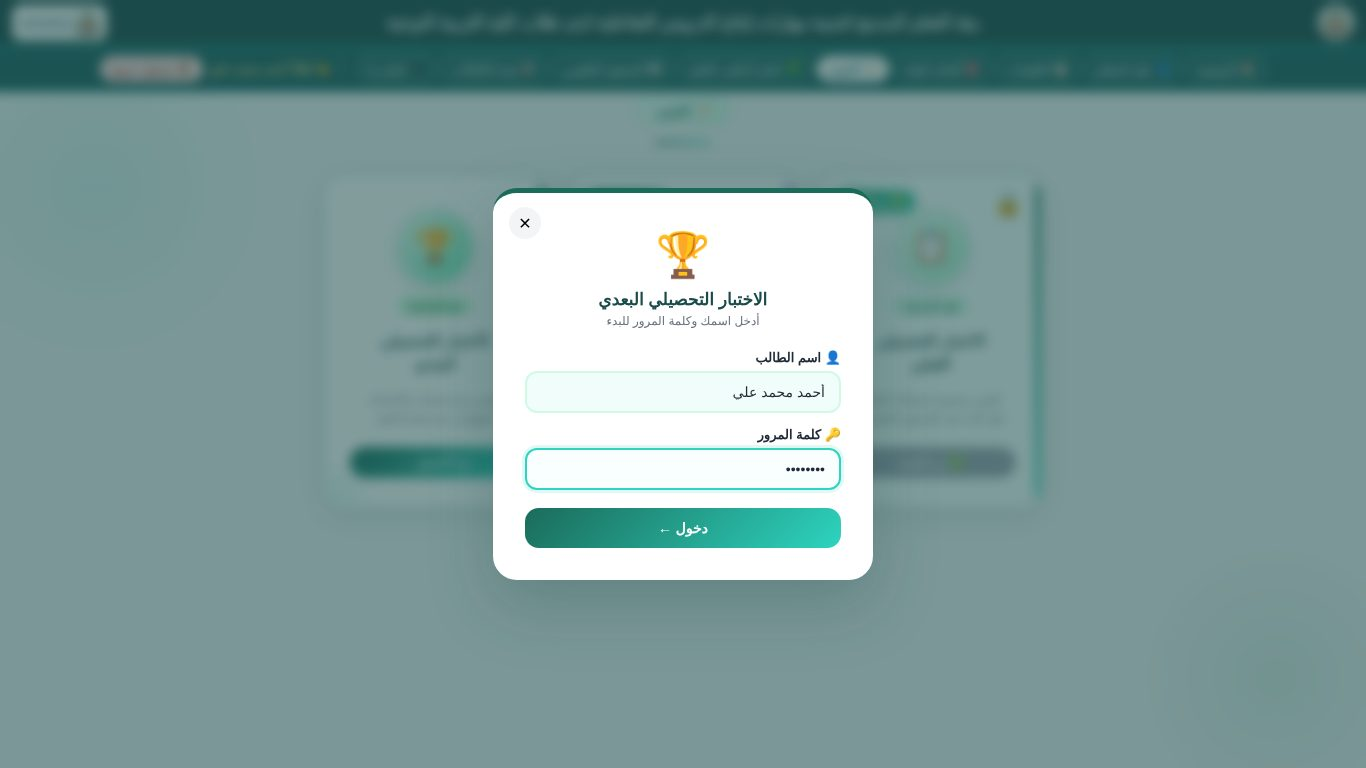
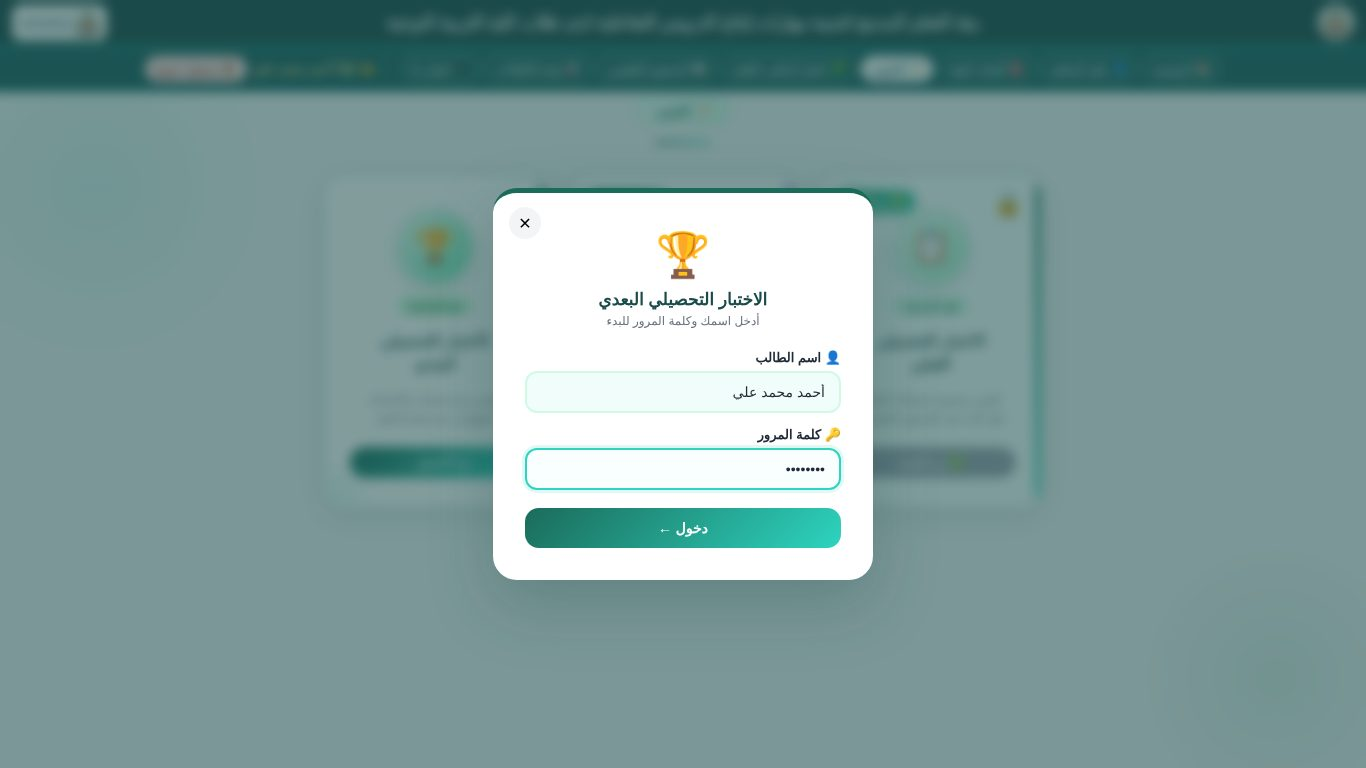
Update project

Changed region(s): [[0.0615, 0.0625, 0.1845, 0.125], [0.5842, 0.0625, 0.7072, 0.125]]

diff --git a/guied.html b/guied.html
@@ -45,6 +45,7 @@
         <div class="mini"><b>🏫 في البيئة الصفية (المحاضرات)</b>تدرس الموديول الأول (خلفية نظرية عن الدروس التفاعلية) والموديول الثاني (نموذج التصميم التعليمي لتصميم الدروس التفاعلية).</div>
         <div class="mini"><b>💻 في البيئة الإلكترونية (هذه البيئة)</b>تدرس الجانب العملي: الموديول الثالث (مرحلة إنتاج الدروس التفاعلية باستخدام برنامج CourseLab) والموديول الرابع (مرحلة نشر وتطبيق وتقويم الدروس التفاعلية).</div>
       </div>
+      <div class="tip" style="background:#fff7ed;border-color:#fdba74;">🔑 <b>للدخول على الموديول الثالث (البيئة التعليمية)</b> يجب أن تقوم بالإجابة على الاختبارات، سواء الاختبار التحصيلي القبلي أو اختبار أساليب التعلم، وبناءً على درجتك فيهما سيتم توجيهك للبيئة المناسبة.</div>
       <div class="tip">📌 الدليل متاح في كل وقت من رابط «📘 دليل المتعلم» أعلى الشاشة، ويمكنك فتحه حتى أثناء الاختبارات (يفتح في نافذة جديدة).</div>
     </section>
 
@@ -60,16 +61,17 @@
       <div class="tip">🔍 إذا ظهر شريط تمرير أو جزء مقصوص من الصفحة: صغّر تكبير المتصفح بالضغط على <b>Ctrl و −</b> حتى تظهر الصفحة كاملة، وللرجوع للحجم الطبيعي <b>Ctrl و 0</b>.</div>
     </section>
 
-    <section class="g-sec" id="login" data-title="تسجيل الدخول" data-ico="🔑" data-part="أولاً: الدخول إلى البيئة">
+    <section class="g-sec" id="login" data-title="الدخول إلى البيئة" data-ico="🔑" data-part="أولاً: الدخول إلى البيئة">
       <ol class="steps">
         <li>افتح متصفح الإنترنت (مثل Google Chrome).</li>
-        <li>اكتب أو الصق رابط البيئة في شريط العنوان: <span class="url" id="envUrl"></span> ثم اضغط <b>Enter</b>.</li>
-        <li>تظهر <b>شاشة تسجيل الدخول</b> للبيئة. تأكد أن الزر <b>«تسجيل دخول الطالب»</b> أعلى الشاشة هو المحدد.</li>
-        <li>اكتب <b>اسم المستخدم</b> و<b>كلمة المرور</b> اللذين أعطتهما لك الباحثة، ثم اضغط <b>«دخول»</b>.</li>
+        <li>انسخ رابط البيئة التالي والصقه في شريط العنوان: <span class="url" id="envUrl"></span> ثم اضغط <b>Enter</b>.</li>
+        <li class="only-closed">تظهر <b>شاشة تسجيل الدخول</b>؛ تأكد أن الزر <b>«تسجيل دخول الطالب»</b> أعلى الشاشة هو المحدد، واكتب <b>اسم المستخدم</b> و<b>كلمة المرور</b> اللذين أعطتهما لك الباحثة، ثم اضغط <b>«دخول»</b>.</li>
       </ol>
-      <figure class="shot"><img src="img/guide/01_login.jpg" alt="شاشة تسجيل الدخول"><figcaption>شاشة تسجيل الدخول</figcaption></figure>
-      <p>بمجرد الدخول يظهر اسمك أعلى الشاشة: <b>«👋 أهلاً، اسمك»</b> وبجواره زر <b>«تسجيل خروج»</b>، وتظهر روابط البيئة كلها، وفي أول دخول تنقلك البيئة مباشرة إلى الاختبار التحصيلي القبلي.</p>
-      <figure class="shot"><img src="img/guide/02_home.jpg" alt="الشاشة الرئيسية بعد الدخول"><figcaption>الشاشة الرئيسية للبيئة بعد تسجيل الدخول</figcaption></figure>
+      <figure class="shot only-closed"><img src="img/guide/01_login.jpg" alt="شاشة تسجيل الدخول"><figcaption>شاشة تسجيل الدخول</figcaption></figure>
+      <p>تظهر <b>الشاشة الرئيسية</b> للبيئة كما هو موضح بالشكل الآتي:</p>
+      <figure class="shot"><img src="img/guide/02_home.jpg" alt="الشاشة الرئيسية للبيئة"><figcaption>الشاشة الرئيسية للبيئة</figcaption></figure>
+      <div class="tip" style="background:#fff7ed;border-color:#fdba74;">📝 قم بأداء <b>الاختبار التحصيلي القبلي</b> و<b>اختبار أساليب التعلم</b>، وبناءً على درجتك فيهما سوف يتم توجيهك للبيئة المناسبة لتلقي الدعم، وتدخل إليها من خلال <b>اسم المستخدم (اليوزر نيم)</b> و<b>كلمة المرور</b> كما بالشكل الآتي:</div>
+      <figure class="shot"><img src="img/guide/09b_pattern_login.jpg" alt="شاشة تسجيل الدخول لبيئة الدعم"><figcaption>شاشة تسجيل الدخول لبيئة الدعم التي تم توجيهك إليها</figcaption></figure>
       <div class="tip">🔐 بياناتك شخصية؛ لا تشاركها مع أحد. كل دخول وكل خطوة تنجزها يُحفظ باسمك، وعند الدخول مرة أخرى (من أي جهاز) تكمل من حيث توقفت.</div>
     </section>
 
@@ -79,8 +81,7 @@
       <table class="tbl">
         <tr><th>الرابط</th><th>ماذا يحدث عند الضغط عليه؟</th></tr>
         <tr><td>🏠 الرئيسية</td><td>يعرض عنوان البحث وبيانات الباحثة والسادة المشرفين.</td></tr>
-        <tr><td>📘 دليل المتعلم</td><td>هذا الدليل.</td></tr>
-        <tr><td>📋 التعليمات</td><td>تعليمات مختصرة في ثلاثة روابط: الدخول — أثناء التعلم — الاختبارات والخروج.</td></tr>
+        <tr><td>📘 دليل المتعلم</td><td>هذا الدليل، ويتضمن كل تعليمات التعامل مع البيئة من الدخول حتى الخروج.</td></tr>
         <tr><td>🎯 أهداف البيئة</td><td>يعرض <b>الأهداف</b> التي ستكون قادرًا على تحقيقها بعد دراستك في البيئة.</td></tr>
         <tr><td>📝 التقويم</td><td>منه تؤدي الاختبار التحصيلي القبلي واختبار أساليب التعلم، وفي نهاية التعلم الاختبار التحصيلي البعدي.</td></tr>
         <tr><td>🧩 اختبار أساليب التعلم</td><td>رابط مباشر لاختبار أساليب التعلم (يُفتح بعد الاختبار القبلي).</td></tr>
@@ -144,12 +145,13 @@
       </ol>
       <p>اضغط على الدرس فتظهر تحته ثلاثة روابط: <b>🎯 أهداف الدرس</b> — <b>📄 محتوى الدرس</b> — <b>🧩 النشاط التعليمي</b>.</p>
       <figure class="shot"><img src="img/guide/11_lesson_objectives.jpg" alt="أهداف الدرس"><figcaption>«أهداف الدرس»: ما ستتمكن منه بعد دراسة الدرس</figcaption></figure>
-      <p>في <b>«محتوى الدرس»</b> تظهر <b>روابط المهارات</b> أعلى الشاشة؛ اضغط على رابط المهارة فيظهر <b>شرحها</b> وبجواره <b>الفيديو أو الصورة الخاصة بها</b>. تنقّل بين المهارات بالروابط، والمهارة التي شاهدتها يظهر بجوار رقمها ✓.</p>
-      <figure class="shot"><img src="img/guide/12_lesson_content_links.jpg" alt="محتوى الدرس وروابط المهارات"><figcaption>«محتوى الدرس»: روابط المهارات، وشرح المهارة المختارة مع الفيديو الخاص بها</figcaption></figure>
+      <p>بمجرد الضغط على <b>«محتوى الدرس»</b> تظهر أسفله <b>قائمة منسدلة</b> بأسماء مهارات الدرس (مثل: تحميل البرنامج — الوصول إلى الملف — خطوات التفعيل). اضغط على اسم المهارة فيظهر <b>شرحها</b> وبجواره <b>الفيديو أو الصور الخاصة بها</b>، والمهارة التي شاهدتها تتلوّن علامتها باللون الأخضر.</p>
+      <figure class="shot"><img src="img/guide/12_lesson_content_links.jpg" alt="محتوى الدرس وروابط المهارات"><figcaption>«محتوى الدرس»: قائمة المهارات المنسدلة، وشرح المهارة المختارة مع الفيديو الخاص بها</figcaption></figure>
       <p>بعد آخر درس في الموديول الثالث يظهر لك رابط الانتقال إلى الموديول الرابع، وبنفس الطريقة تستعرض دروسه الثلاثة: نشر الدرس التفاعلي في برنامج CourseLab — التغذية الراجعة لمرحلة الإنتاج ومرحلة التنفيذ — مرحلة التقويم Evaluation.</p>
     </section>
 
     <section class="g-sec" id="activity" data-title="النشاط التعليمي والدعم" data-ico="🧩" data-part="ثانياً: التفاعل مع البيئة والروابط">
+      <div class="tip" style="background:#fff7ed;border-color:#fdba74;">🧩 <b>لن يظهر النشاط لك إلا بعد أداء الجانب العملي الموجود</b> في «محتوى الدرس»، وخلال النشاط ستحتاج للدعم، وسيكون ظاهرًا أمامك بصورة ثابتة، أو أن تطلبه من خلال الضغط على الزر لعرضه.</div>
       <ol class="steps">
         <li>بعد دراسة محتوى الدرس اضغط على <b>«🧩 النشاط التعليمي»</b> في قائمة الدرس على اليمين.</li>
         <li>يظهر أمامك <b>وصف النشاط</b> و<b>المطلوب منك</b>؛ نفّذه على برنامج CourseLab.</li>
@@ -181,11 +183,14 @@
       <figure class="shot"><img src="img/guide/20_final_screen.jpg" alt="نتيجة الاختبار البعدي"><figcaption>الشاشة الأخيرة: نتيجة الاختبار التحصيلي البعدي</figcaption></figure>
     </section>
 
-    <section class="g-sec" id="exit" data-title="الخروج من البيئة ونصائح عامة" data-ico="🚪" data-part="ثانياً: التفاعل مع البيئة والروابط">
+    <section class="g-sec" id="exit" data-title="الخروج من البيئة وتعليمات عامة" data-ico="🚪" data-part="ثانياً: التفاعل مع البيئة والروابط">
       <ul class="steps">
         <li>للخروج في أي وقت اضغط زر <b>«🚪 تسجيل خروج»</b> أعلى الشاشة بجوار اسمك؛ يُحفظ تقدّمك وتكمل من نفس النقطة في الدخول التالي.</li>
-        <li>لا تغلق نافذة الاختبار أثناء أدائه؛ وعند انتهاء الوقت يُسلَّم تلقائيًا.</li>
-        <li>ادرس الدروس بالترتيب، ونفّذ نشاط كل درس قبل الانتقال للدرس التالي.</li>
+        <li>اضبط تكبير المتصفح على <b>100%</b>، واستخدم أحدث إصدار من Google Chrome مع اتصال إنترنت مستقر.</li>
+        <li>ادرس الدروس بالترتيب: <b>أهداف الدرس</b> ← <b>محتوى الدرس</b> ← <b>النشاط التعليمي</b>، ونفّذ نشاط كل درس وسلّمه قبل الانتقال للدرس التالي.</li>
+        <li>شاهد فيديو كل مهارة كاملًا، وطبّق المهارة عمليًا على برنامج CourseLab.</li>
+        <li>أثناء أي اختبار: لا تغلق الصفحة ولا تغادرها؛ يمكنك فقط فتح «دليل المتعلم» في نافذة جديدة، وعند انتهاء الوقت يُسلَّم الاختبار تلقائيًا بالإجابات المسجلة.</li>
+        <li>تابع <b>لوحة الإعلانات</b> باستمرار؛ تنشر فيها الباحثة التذكيرات والمواعيد (مثل موعد تسليم الأنشطة وكلمة مرور الاختبار البعدي).</li>
         <li>إذا واجهتك مشكلة تقنية: حدّث الصفحة (F5)، وتأكد من الإنترنت، ثم تواصل مع الباحثة من «اتصل بنا».</li>
       </ul>
     </section>
@@ -199,8 +204,9 @@
 (function(){
   /* رابط البيئة الفعلي */
   try {
-    var u = new URL(ENV.url('main', 'index.html'), location.href).href;
-    document.getElementById('envUrl').textContent = u.replace(/index\.html$/, '');
+    var u = new URL(ENV.url('main', 'home.html'), location.href).href;
+    document.getElementById('envUrl').textContent = u;
+    if (ENV.CONFIG && ENV.CONFIG.OPEN_MODE) document.querySelectorAll('.only-closed').forEach(function(el){ el.style.display = 'none'; });
   } catch(e) {}
   /* تكبير الصور */
   document.querySelectorAll('.shot img').forEach(function(im){

diff --git a/admin.html b/admin.html
@@ -71,6 +71,7 @@ tr:hover td{background:#f8fffd;}
     <a href="#accounts">➕ إنشاء حسابات الطلاب</a>
     <a href="#activities">📝 إجابات الأنشطة</a>
     <a href="#log">🕒 سجل نشاط الطلاب</a>
+    <a href="#ann">📢 لوحة الإعلانات</a>
     <a href="#researchers">🎓 حسابات الباحثين</a>
   </div>
   <div class="row" style="margin-bottom:10px;">
@@ -115,7 +116,7 @@ tr:hover td{background:#f8fffd;}
         <div style="display:grid;gap:8px;">
           <input id="aName" placeholder="اسم الطالب (كما يظهر في البيئة)">
           <input id="aUser" placeholder="اسم المستخدم (إنجليزي بدون مسافات) مثل: s001" dir="ltr" style="text-align:right;">
-          <div class="row"><input id="aPass" placeholder="كلمة المرور (6 أحرف على الأقل)" dir="ltr" style="flex:1;text-align:right;"><button class="ghost" onclick="$('aPass').value=genPass()">🎲 توليد</button></div>
+          <div class="row"><input id="aPass" placeholder="كلمة المرور (6 أرقام/أحرف على الأقل) — اتركها فارغة لتوليد 6 أرقام" dir="ltr" style="flex:1;text-align:right;"><button class="ghost" onclick="$('aPass').value=genPass()">🎲 توليد</button></div>
           <button onclick="addOne()" id="aBtn">إنشاء الحساب</button>
           <div class="msg" id="aMsg"></div>
         </div>
@@ -159,6 +160,27 @@ tr:hover td{background:#f8fffd;}
   </section>
 
   <!-- ============ الباحثون ============ -->
+  <section class="pane" id="ann">
+    <div class="grid2">
+      <div class="box"><h3>📢 نشر إعلان / تذكير للطلاب</h3>
+        <div class="muted" style="margin-bottom:6px;">يظهر الإعلان فورًا في «لوحة الإعلانات» لدى الطلاب، مثل التذكير بالانتهاء من النشاط وتسليمه أو موعد الاختبار البعدي.</div>
+        <div style="display:grid;gap:8px;">
+          <input id="anTitle" placeholder="عنوان الإعلان (مثال: تذكير بتسليم نشاط الدرس الرابع)">
+          <textarea id="anText" rows="5" placeholder="نص الإعلان..." dir="auto"></textarea>
+          <div class="row">
+            <label class="muted">النوع:</label>
+            <select id="anType"><option value="urgent">🔴 عاجل</option><option value="info" selected>🔵 تذكير / توجيه</option></select>
+            <label class="muted">يظهر لـ:</label>
+            <select id="anTarget"><option value="all">كل الطلاب (الأنماط الأربعة)</option></select>
+          </div>
+          <div class="row"><button onclick="saveAnn()" id="anBtn">📢 نشر الإعلان</button><button class="ghost" onclick="resetAnn()">مسح الحقول</button></div>
+          <div class="msg" id="anMsg"></div>
+        </div>
+      </div>
+      <div class="box"><h3>الإعلانات المنشورة</h3><div class="muted" style="margin-bottom:6px;">يمكنك إخفاء الإعلان مؤقتًا أو تعديله أو حذفه.</div><div class="tblwrap"><table id="anTbl"></table></div></div>
+    </div>
+  </section>
+
   <section class="pane" id="researchers">
     <div class="grid2">
       <div class="box"><h3>➕ إضافة حساب باحث/مشرف</h3>
@@ -183,7 +205,7 @@ tr:hover td{background:#f8fffd;}
 <script src="https://www.gstatic.com/firebasejs/9.23.0/firebase-firestore-compat.js"></script>
 <script src="https://www.gstatic.com/firebasejs/9.23.0/firebase-auth-compat.js"></script>
 <script>
-var D = { students:{}, progress:{}, results:{}, activities:{}, logs:{}, researchers:{} };
+var D = { students:{}, progress:{}, results:{}, activities:{}, logs:{}, researchers:{}, announcements:{} };
 var ENVN = { g1:'بيئة 1: دعم ثابت / معتمد', g2:'بيئة 2: دعم ثابت / مستقل', g3:'بيئة 3: دعم مرن / معتمد', g4:'بيئة 4: دعم مرن / مستقل' };
 var STYLEN = { dep:'معتمد على المجال', ind:'مستقل عن المجال' };
 var EVN = { login:'دخول', logout:'خروج', pretest:'الاختبار القبلي', styles:'اختبار أساليب التعلم', posttest:'الاختبار البعدي', view:'فتح قسم درس', skill:'مشاهدة مهارة', activity:'تسليم نشاط' };
@@ -196,7 +218,8 @@ function $(id){ return document.getElementById(id); }
 function esc(s){ return String(s==null?'':s).replace(/[&<>"']/g,function(c){return {'&':'&amp;','<':'&lt;','>':'&gt;','"':'&quot;',"'":'&#39;'}[c];}); }
 function fmt(d){ if(!d) return '—'; try { return new Date(d).toLocaleString('ar-EG',{dateStyle:'short',timeStyle:'short'}); } catch(e){ return d; } }
 function v(x){ return (x===null||x===undefined||x==='')?'—':x; }
-function genPass(){ var c='abcdefghjkmnpqrstuvwxyz23456789', p=''; for(var i=0;i<7;i++) p+=c[Math.floor(Math.random()*c.length)]; return p; }
+/* كلمة مرور سهلة للطالب: 6 أرقام */
+function genPass(){ var p=''; for(var i=0;i<6;i++) p+=Math.floor(Math.random()*10); if(p[0]==='0') p='1'+p.slice(1); return p; }
 function showMsg(id, ok, t){ var m=$(id); m.className='msg '+(ok?'ok':'err'); m.innerHTML=t; }
 function db(){ return firebase.firestore(); }
 function colMap(name){ return db().collection(name).get().then(function(q){ var o={}; q.forEach(function(d){ o[d.id]=d.data(); }); return o; }); }
@@ -218,14 +241,50 @@ function loadAll(){
     var au = firebase.auth().currentUser;
     if(!au){ ENV.logout(); throw {code:'auth/session'}; }
     var keys=['students','progress','results','activities','researchers'];
+    var annP=colMap('announcements').then(function(o){ D.announcements=o; })['catch'](function(){ D.announcements=D.announcements||{}; });
     var logsP=db().collection('logs').orderBy('at','desc').limit(5000).get().then(function(q){
       var L={}; q.forEach(function(d){ var x=d.data(); (L[x.uid]=L[x.uid]||{})[d.id]=x; }); D.logs=L; });
-    return Promise.all(keys.map(function(k){ return colMap(k).then(function(o){ D[k]=o; }); }).concat([logsP]));
+    return Promise.all(keys.map(function(k){ return colMap(k).then(function(o){ D[k]=o; }); }).concat([logsP, annP]));
   }).then(function(){
     renderAll();
     $('status').textContent='آخر تحديث: '+new Date().toLocaleTimeString('ar-EG')+' — عدد الطلاب: '+Object.keys(D.students).length;
   }).catch(function(e){ $('status').textContent='⚠ '+ENV.authMsg(e); });
 }
+
+/* ---------- لوحة الإعلانات ---------- */
+var AN_EDIT=null;
+function annTargets(){
+  var sel=$('anTarget'); if(!sel || sel.options.length>1) return;
+  Object.keys(ENV.CONFIG.SITES).forEach(function(k){ var o=document.createElement('option'); o.value=k; o.textContent='بيئة '+ENV.CONFIG.SITES[k].label+' فقط'; sel.appendChild(o); });
+}
+function renderAnn(){
+  annTargets();
+  var A=D.announcements||{}, ids=Object.keys(A).sort(function(a,b){ return String(A[b].createdAt||'').localeCompare(String(A[a].createdAt||'')); });
+  var T=function(t){ return t==='all'?'كل الطلاب':((ENV.CONFIG.SITES[t]||{}).label||t); };
+  $('anTbl').innerHTML='<tr><th>العنوان</th><th>النوع</th><th>يظهر لـ</th><th>التاريخ</th><th>الحالة</th><th></th></tr>'+
+    (ids.length? ids.map(function(id){ var a=A[id];
+      return '<tr><td><b>'+esc(a.title)+'</b><div class="muted" style="max-width:340px;white-space:pre-wrap;">'+esc(a.text)+'</div></td><td>'+(a.type==='urgent'?'🔴 عاجل':'🔵 تذكير')+'</td><td>'+esc(T(a.target||'all'))+'</td><td>'+esc(String(a.createdAt||'').slice(0,10))+'</td><td>'+(a.active===false?'⏸ مخفي':'✅ ظاهر')+'</td>'+
+        '<td style="white-space:nowrap;"><button class="ghost" onclick="editAnn(\''+id+'\')">✏</button> <button class="ghost" onclick="toggleAnn(\''+id+'\')">'+(a.active===false?'إظهار':'إخفاء')+'</button> <button class="ghost" onclick="delAnn(\''+id+'\')">🗑</button></td></tr>';
+    }).join('') : '<tr><td colspan="6" class="muted">لا توجد إعلانات منشورة بعد.</td></tr>');
+}
+function resetAnn(){ AN_EDIT=null; $('anTitle').value=''; $('anText').value=''; $('anType').value='info'; $('anTarget').value='all'; $('anBtn').textContent='📢 نشر الإعلان'; }
+function editAnn(id){ var a=(D.announcements||{})[id]; if(!a) return; AN_EDIT=id; $('anTitle').value=a.title||''; $('anText').value=a.text||''; $('anType').value=a.type||'info'; $('anTarget').value=a.target||'all'; $('anBtn').textContent='💾 حفظ التعديل'; $('anTitle').focus(); }
+function saveAnn(){
+  var t=$('anTitle').value.trim(), x=$('anText').value.trim();
+  if(!t || !x) return showMsg('anMsg',false,'اكتب عنوان الإعلان ونصه.');
+  var o={ title:t, text:x, type:$('anType').value, target:$('anTarget').value, updatedAt:new Date().toISOString() };
+  var ref = AN_EDIT ? db().collection('announcements').doc(AN_EDIT) : db().collection('announcements').doc();
+  if(!AN_EDIT){ o.createdAt=o.updatedAt; o.active=true; o.by=(ENV.user()||{}).name||''; }
+  $('anBtn').disabled=true;
+  ref.set(o,{merge:true}).then(function(){
+    D.announcements=D.announcements||{}; D.announcements[ref.id]=Object.assign({}, D.announcements[ref.id]||{}, o);
+    showMsg('anMsg',true, AN_EDIT?'تم حفظ التعديل.':'تم نشر الإعلان، ويظهر الآن في لوحة إعلانات الطلاب.'); resetAnn(); renderAnn();
+  }).catch(function(e){ showMsg('anMsg',false,'تعذر الحفظ: '+ENV.authMsg(e)); }).then(function(){ $('anBtn').disabled=false; });
+}
+function toggleAnn(id){ var a=D.announcements[id]; var v=(a.active===false);
+  db().collection('announcements').doc(id).set({active:v},{merge:true}).then(function(){ a.active=v; renderAnn(); }).catch(function(e){ alert(ENV.authMsg(e)); }); }
+function delAnn(id){ if(!confirm('حذف هذا الإعلان نهائيًا؟')) return;
+  db().collection('announcements').doc(id).delete().then(function(){ delete D.announcements[id]; renderAnn(); }).catch(function(e){ alert(ENV.authMsg(e)); }); }
 
 function rows(){
   return Object.keys(D.students).map(function(uid){
@@ -246,7 +305,7 @@ function rows(){
   }).sort(function(x,y){ return String(x.username).localeCompare(String(y.username)); });
 }
 
-function renderAll(){ renderOverview(); renderStudents(); renderCreds(); renderActivities(); renderLog(); renderResearchers(); }
+function renderAll(){ renderOverview(); renderStudents(); renderCreds(); renderActivities(); renderLog(); renderResearchers(); renderAnn(); }
 
 function renderOverview(){
   var R=rows(), n=R.length;

diff --git a/instructions.html b/instructions.html
@@ -2,76 +2,10 @@
 <html lang="ar" dir="rtl">
 <head>
 <meta charset="UTF-8">
-<script src="env.js" data-site="main"></script>
-<meta name="viewport" content="width=device-width, initial-scale=1.0">
-<title>التعليمات</title>
-<link href="https://fonts.googleapis.com/css2?family=Cairo:wght@300;400;600;700;800&display=swap" rel="stylesheet">
-<link rel="stylesheet" href="guide.css">
-<style>.g-wrap{grid-template-columns:1fr;max-width:1100px;}</style>
+<title>دليل المتعلم</title>
+<!-- تبويب «التعليمات» حُذف ودُمجت تعليماته في «دليل المتعلم» -->
+<script>location.replace('guied.html' + (location.hash || ''));</script>
+<meta http-equiv="refresh" content="0;url=guied.html">
 </head>
-<body>
-<div class="header">
-  <div class="brand-logos">
-    <img src="img/logo-zu.png" alt="شعار جامعة الزقازيق">
-    <img src="img/logo-col.jpeg" alt="شعار كلية التربية النوعية">
-  </div>
-  <div class="header-title">بيئة التعلم المدمج لتنمية مهارات إنتاج الدروس التفاعلية لدى طلاب كلية التربية النوعية</div>
-</div>
-<nav class="nav"></nav>
-
-<div class="g-wrap">
-  <main class="g-main" id="gMain">
-    <div style="text-align:center;margin-bottom:12px;">
-      <div style="font-size:22px;font-weight:800;color:#1b6b5a;">📋 التعليمات</div>
-      <div style="font-size:13px;color:#64748b;">تعليمات التعامل مع البيئة من الدخول حتى الخروج — اضغط على الرابط المطلوب</div>
-    </div>
-
-    <div class="ins-links">
-      <a class="ins-link" href="#before"><span class="big">🔑</span><b>١) تعليمات الدخول إلى البيئة</b><small>قبل الدخول وعند تسجيل الدخول</small></a>
-      <a class="ins-link" href="#during"><span class="big">📖</span><b>٢) تعليمات أثناء التعلم</b><small>التنقل — المحتوى — الأنشطة — الدعم</small></a>
-      <a class="ins-link" href="#tests"><span class="big">🏁</span><b>٣) تعليمات الاختبارات والخروج</b><small>القبلي — أساليب التعلم — البعدي — آخر شاشة</small></a>
-    </div>
-
-    <section class="g-sec" id="before" data-title="تعليمات الدخول إلى البيئة" data-ico="🔑">
-      <ol class="steps">
-        <li>اقرأ <a href="guied.html">دليل المتعلم</a> قبل الدخول للبيئة.</li>
-        <li>اضبط دقة الشاشة على <b>1366×768 بكسل كحد أدنى</b> (يُفضّل <b>1920×1080</b>) وتكبير المتصفح على <b>100%</b>.</li>
-        <li>استخدم أحدث إصدار من متصفح <b>Google Chrome</b> مع اتصال إنترنت مستقر.</li>
-        <li>افتح رابط البيئة؛ تظهر شاشة <b>تسجيل الدخول</b>.</li>
-        <li>اكتب <b>اسم المستخدم</b> ثم <b>كلمة المرور</b> اللذين أعطتهما لك الباحثة، واضغط <b>«دخول»</b>.</li>
-        <li>بياناتك شخصية؛ لا تشاركها مع أحد، وكل دخول يُسجَّل باسمك.</li>
-        <li>عند العودة لاحقًا ادخل بنفس البيانات، وستكمل من حيث توقفت.</li>
-      </ol>
-    </section>
-
-    <section class="g-sec" id="during" data-title="تعليمات أثناء التعلم" data-ico="📖">
-      <ol class="steps">
-        <li>تنقّل بين أجزاء البيئة من <b>التبويبات</b> أعلى الشاشة؛ التبويب الذي بجواره 🔒 لم يحن دوره بعد.</li>
-        <li>بعد اختبار أساليب التعلم وتسجيل الدخول لبيئتك يُفتح <b>المحتوى التعليمي</b> في نمط الدعم المحدد لك؛ ابدأ بـ<b>الموديول الثالث</b> ثم <b>الرابع</b>.</li>
-        <li>لكل درس ثلاثة أقسام: <b>أهداف الدرس</b> ← <b>محتوى الدرس</b> ← <b>النشاط التعليمي</b>.</li>
-        <li>في «محتوى الدرس» اضغط على <b>رابط المهارة</b> لعرض شرحها والفيديو الخاص بها؛ لا توجد أزرار «التالي/السابق».</li>
-        <li>شاهد الفيديو كاملًا وطبّق المهارة على برنامج CourseLab.</li>
-        <li>في «النشاط التعليمي» نفّذ المطلوب، واستعن بـ<b>الدعم</b> الظاهر بجوار النشاط (الثابت يظهر دائمًا، والمرن تفتحه بنفسك).</li>
-        <li>اكتب إجابتك واضغط <b>«تسليم الإجابة»</b> قبل الانتقال للدرس التالي.</li>
-        <li>تابع <b>لوحة الإعلانات</b>، وتواصل مع المشرف من <b>«اتصل بنا»</b> عند الحاجة.</li>
-      </ol>
-    </section>
-
-    <section class="g-sec" id="tests" data-title="تعليمات الاختبارات والخروج من البيئة" data-ico="🏁">
-      <ol class="steps">
-        <li><b>الاختبار القبلي</b> يُفتح بعد أول دخول مباشرة: 160 سؤالًا في 90 دقيقة، ويُؤدّى مرة واحدة فقط.</li>
-        <li>للإجابة على التقويم اضغط رابط <b>«📝 التقويم»</b> واختر الاختبار التحصيلي القبلي، ثم <b>اختبار أساليب التعلم</b> (أو من الرابط الذي يظهر تحت نتيجة القبلي)؛ نتيجته تحدد نمط الدعم وتوجّهك للبيئة المناسبة لك.</li>
-        <li>بعد التوجيه تظهر <b>شاشة تسجيل الدخول</b> لبيئتك: ادخل بنفس اسم المستخدم وكلمة المرور، فيُفتح المحتوى التعليمي.</li>
-        <li>أثناء أي اختبار: لا تغلق الصفحة ولا تغادرها؛ يمكنك فقط فتح «التعليمات» و«دليل المتعلم» في نافذة جديدة.</li>
-        <li>عند انتهاء الوقت يُسلَّم الاختبار تلقائيًا بالإجابات المسجلة.</li>
-        <li><b>الاختبار البعدي</b> بعد إنهاء الموديولين، بكلمة مرور يعلنها المشرف في موعده.</li>
-        <li>نتيجة الاختبار البعدي: <b>50% فأكثر</b> = اجتزت المحتوى بنجاح؛ <b>أقل من 50%</b> = ادرس محتوى الموديولات مرة أخرى ثم أعد الاختبار البعدي من رابط «التقويم».</li>
-        <li><b>آخر شاشة في البيئة</b> هي «نتيجة الاختبار التحصيلي البعدي»: اقرأ نتيجتك ثم اضغط <b>«🚪 إنهاء وتسجيل الخروج من البيئة»</b>.</li>
-        <li>للخروج في أي وقت قبل ذلك اضغط تبويب <b>«🚪 خروج»</b>؛ تقدّمك محفوظ.</li>
-      </ol>
-    </section>
-  </main>
-</div>
-<script src="guide.js"></script>
-</body>
+<body><a href="guied.html">دليل المتعلم</a></body>
 </html>

diff --git a/env.js b/env.js
@@ -378,7 +378,6 @@
     var T = [
       { k: 'home',    ico: '🏠', label: 'الرئيسية',             href: url('main', 'home.html') },
       { k: 'guide',   ico: '📘', label: 'دليل المتعلم',          href: url('main', 'guied.html') },
-      { k: 'instr',   ico: '📋', label: 'التعليمات',             href: url('main', 'instructions.html') },
       { k: 'aims',    ico: '🎯', label: 'أهداف البيئة',          href: url('main', 'aims.html') },
       { k: 'eval',    ico: '📝', label: 'التقويم',               href: url('main', 'pretest.html') },
       { k: 'styles',  ico: '🧩', label: 'اختبار أساليب التعلم',  href: url('main', 'trian.html'),
@@ -395,14 +394,14 @@
     if (CONFIG.RESEARCHER) T.push({ k: 'admin', ico: '📊', label: 'لوحة الباحثة', href: url('main', 'admin.html') });
     if (!CONFIG.OPEN_MODE && !user()) {
       T.forEach(function (t) {
-        if (['guide', 'instr', 'contact'].indexOf(t.k) === -1) t.lock = 'سجّل الدخول أولاً من زر «دخول الطالب» أعلى الشاشة';
+        if (['guide', 'contact'].indexOf(t.k) === -1) t.lock = 'سجّل الدخول أولاً من زر «دخول الطالب» أعلى الشاشة';
       });
     }
     return T;
   }
   function activeKey() {
     var map = {
-      'home.html': 'home', 'guied.html': 'guide', 'instructions.html': 'instr', 'aims.html': 'aims',
+      'home.html': 'home', 'guied.html': 'guide', 'instructions.html': 'guide', 'aims.html': 'aims',
       'pretest.html': 'eval', 'befor.html': 'eval', 'after.html': 'eval', 'trian.html': 'styles',
       'mods.html': 'content', 'mod3lessons.html': 'content', 'mod4lessons.html': 'content',
       'poster.html': 'poster', 'contact.html': 'contact', 'admin.html': 'admin'
@@ -442,9 +441,9 @@
       var k = a.getAttribute('data-tab');
       var inExam = document.body.classList.contains('exam-active');
       if (inExam) {
-        /* أثناء الاختبار: التعليمات ودليل المتعلم تُفتح في نافذة جديدة حتى لا يضيع الاختبار */
-        if (k === 'instr' || k === 'guide') { e.preventDefault(); window.open(a.href, '_blank'); return; }
-        e.preventDefault(); toast('🔒 لا يمكنك مغادرة الصفحة أثناء الاختبار — يمكنك فتح «التعليمات» أو «دليل المتعلم» فقط'); return;
+        /* أثناء الاختبار: دليل المتعلم يُفتح في نافذة جديدة حتى لا يضيع الاختبار */
+        if (k === 'guide') { e.preventDefault(); window.open(a.href, '_blank'); return; }
+        e.preventDefault(); toast('🔒 لا يمكنك مغادرة الصفحة أثناء الاختبار — يمكنك فتح «دليل المتعلم» فقط'); return;
       }
       if (a.classList.contains('env-locked')) { e.preventDefault(); toast('🔒 ' + a.getAttribute('data-lock')); return; }
       if (k === 'logout' && user()) { e.preventDefault(); logout(); return; }

diff --git a/index.html b/index.html
@@ -117,7 +117,7 @@ body{display:flex;flex-direction:column;min-height:100vh;}
       </div>
 
       <div class="before">
-        📘 قبل الدخول اقرأ <a href="guied.html">دليل المتعلم</a> و<a href="instructions.html">التعليمات</a>
+        📘 قبل الدخول اقرأ <a href="guied.html">دليل المتعلم</a>
         لتعرف خطوات السير في البيئة من أول شاشة حتى آخر شاشة.
       </div>
     </div>
